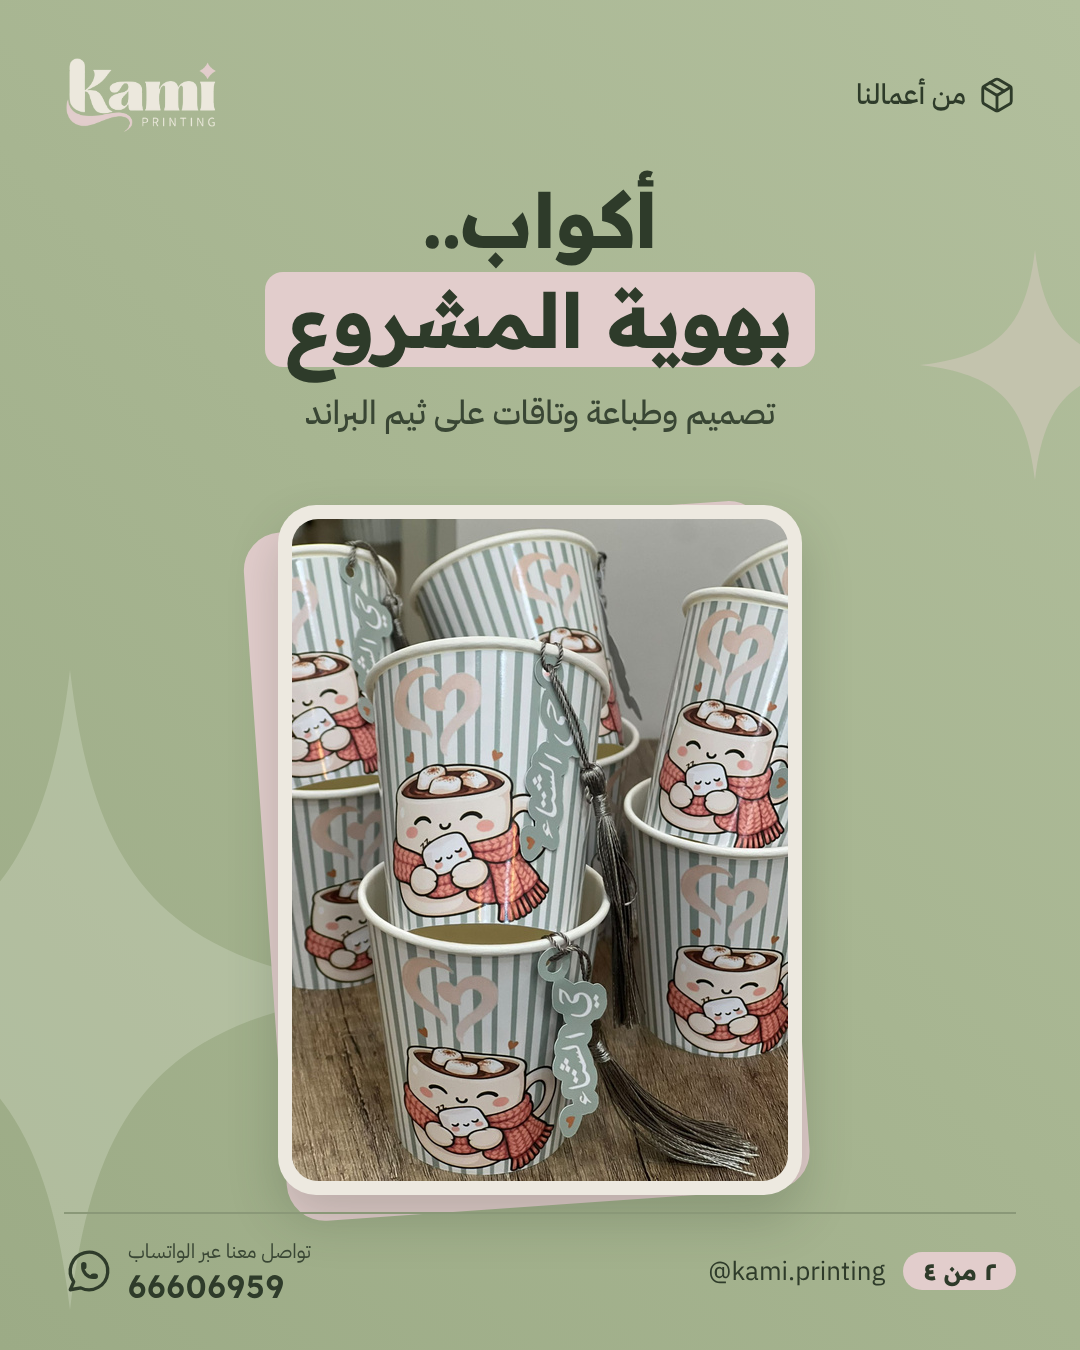
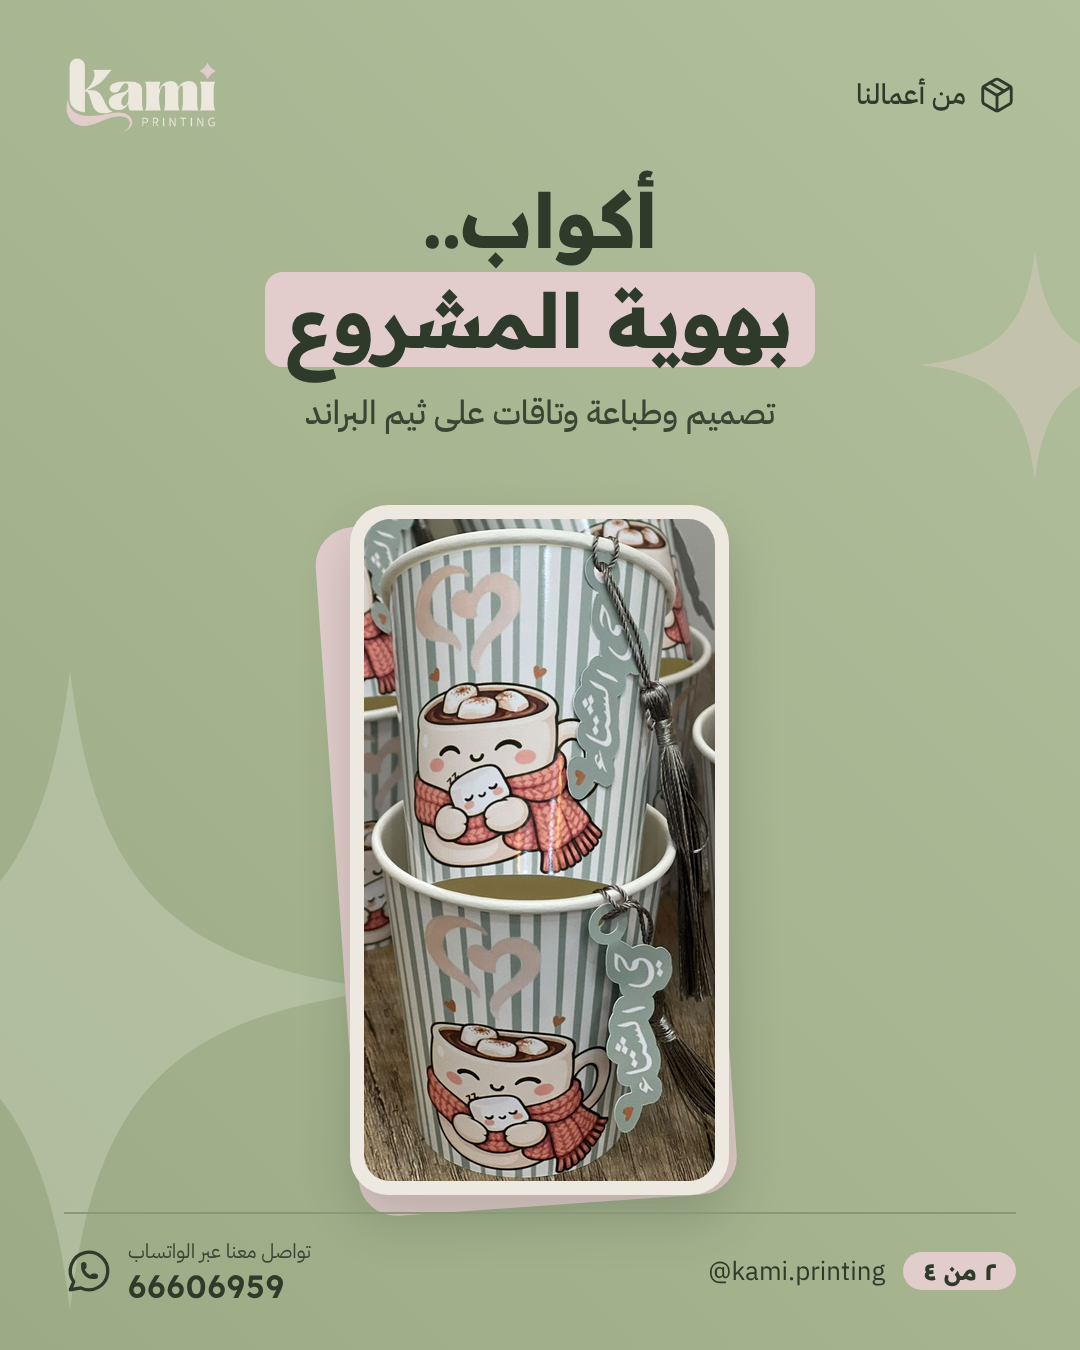
From-our-work post: tidy cups crop (تعديل 2)
Claude-Session: https://claude.ai/code/session_01EDga3ExHWSoRVjSYima4hU

Changed region(s): [[0.2139, 0.3733, 0.7639, 0.9022]]

diff --git a/templates/bundle-carousel.html b/templates/bundle-carousel.html
@@ -34,8 +34,8 @@ footer{position:absolute;left:64px;right:64px;bottom:44px;display:flex;justify-c
 <path d="M11 21.73a2 2 0 0 0 2 0l7-4A2 2 0 0 0 21 16V8a2 2 0 0 0-1-1.73l-7-4a2 2 0 0 0-2 0l-7 4A2 2 0 0 0 3 8v8a2 2 0 0 0 1 1.73z"/>
 <path d="M12 22V12"/><path d="m3.3 7 7.703 4.734a2 2 0 0 0 1.994 0L20.7 7"/><path d="m7.5 4.27 9 5.15"/></svg><span>من أعمالنا</span></div></header>
   <div class="txt"><h1>من أعمالنا..<br><span class="hl">لأحد زباينا</span></h1><div class="cap">أكواب وستيكرات ولمسات ضيافة بهوية عملهم ✦</div></div>
-  <div class="card" style="left:219px;top:505px;width:642px;height:650px"></div>
-  <div class="frame" style="left:219px;top:505px;width:642px;height:650px"><img src="photos/bundle/collage-fit.jpg"></div>
+  <div class="card" style="left:250px;top:505px;width:580px;height:650px"></div>
+  <div class="frame" style="left:250px;top:505px;width:580px;height:650px"><img src="photos/bundle/collage-fit.jpg"></div>
   <div class="swipe">اسحبوا ←</div>
   <footer><div class="fw"><svg viewBox="0 0 24 24" fill="none" stroke="currentColor" stroke-width="1.6" stroke-linecap="round" stroke-linejoin="round">
 <path d="M3 21l1.65-3.8a9 9 0 1 1 3.4 2.9L3 21"/><path d="M9 10a.5.5 0 0 0 1 0V9a.5.5 0 0 0-1 0v1a5 5 0 0 0 5 5h1a.5.5 0 0 0 0-1h-1a.5.5 0 0 0 0 1"/></svg><div><small>تواصل معنا عبر الواتساب</small><b>66606959</b></div></div>
@@ -46,8 +46,8 @@ footer{position:absolute;left:64px;right:64px;bottom:44px;display:flex;justify-c
 <path d="M11 21.73a2 2 0 0 0 2 0l7-4A2 2 0 0 0 21 16V8a2 2 0 0 0-1-1.73l-7-4a2 2 0 0 0-2 0l-7 4A2 2 0 0 0 3 8v8a2 2 0 0 0 1 1.73z"/>
 <path d="M12 22V12"/><path d="m3.3 7 7.703 4.734a2 2 0 0 0 1.994 0L20.7 7"/><path d="m7.5 4.27 9 5.15"/></svg><span>من أعمالنا</span></div></header>
   <div class="txt"><h1>أكواب..<br><span class="hl">بهوية المشروع</span></h1><div class="cap">تصميم وطباعة وتاقات على ثيم البراند</div></div>
-  <div class="card" style="left:278px;top:505px;width:524px;height:690px"></div>
-  <div class="frame" style="left:278px;top:505px;width:524px;height:690px"><img src="photos/bundle/1-fit.jpg"></div>
+  <div class="card" style="left:350px;top:505px;width:379px;height:690px"></div>
+  <div class="frame" style="left:350px;top:505px;width:379px;height:690px"><img src="photos/bundle/1-neat-fit.jpg"></div>
   
   <footer><div class="fw"><svg viewBox="0 0 24 24" fill="none" stroke="currentColor" stroke-width="1.6" stroke-linecap="round" stroke-linejoin="round">
 <path d="M3 21l1.65-3.8a9 9 0 1 1 3.4 2.9L3 21"/><path d="M9 10a.5.5 0 0 0 1 0V9a.5.5 0 0 0-1 0v1a5 5 0 0 0 5 5h1a.5.5 0 0 0 0-1h-1a.5.5 0 0 0 0 1"/></svg><div><small>تواصل معنا عبر الواتساب</small><b>66606959</b></div></div>

diff --git a/templates/bundle_carousel.py b/templates/bundle_carousel.py
@@ -38,10 +38,16 @@ def clean_sheet():
     im.save(os.path.join(PH, '3-clean.jpg'), quality=95)
 
 
+def neat_cups():
+    """Tidy cups shot: crop to the front stack of two cups with their tags (drops the leaning cups behind)."""
+    Image.open(os.path.join(PH, '1.jpg')).convert('RGB').crop((180, 330, 1060, 1990)) \
+        .save(os.path.join(PH, '1-neat.jpg'), quality=95)
+
+
 def collage():
     """Cover collage: row 1 cups + toppers (both 3:4), row 2 sticker stack + sheet; every photo whole."""
     g, Wc = 18, 1600
-    a = [Image.open(os.path.join(PH, f)).convert('RGB') for f in ('1.jpg', '4.jpg', '2.jpg', '3-clean.jpg')]
+    a = [Image.open(os.path.join(PH, f)).convert('RGB') for f in ('1-neat.jpg', '4.jpg', '2.jpg', '3-clean.jpg')]
     def row(ims):
         rs = [i.width / i.height for i in ims]
         h = round((Wc - g * (len(ims) - 1)) / sum(rs))
@@ -127,10 +133,10 @@ footer{{position:absolute;left:64px;right:64px;bottom:44px;display:flex;justify-
 
 
 def main():
-    clean_sheet(); collage()
+    clean_sheet(); neat_cups(); collage()
     BOX = (952, 690)
     a = fit('collage.jpg', 952, 650)
-    b = fit('1.jpg', *BOX)
+    b = fit('1-neat.jpg', *BOX)
     c = fit('3-clean.jpg', *BOX)
     d = fit('4.jpg', *BOX)
     slides = [

diff --git a/فهرس-التصاميم.md b/فهرس-التصاميم.md
@@ -201,7 +201,7 @@
 | 11 | `11-مطبوعات-المشاريع` | 10 سلايدات: ستيكرات الشعار وUV، بطاقات الشكر، بزنس كارد، قصاصات قطنية، علب مطوية. بثيم القسم 1 (تعديل 1، 2026-11-17). المصدر `templates/packaging_carousel.py` |
 | 12 | `12-ستوري-أصحاب-المشاريع` (آخر نسخة: تعديل 1) | ستوري 1080×1920 لأصحاب المشاريع: «نصمم وننفذ فكرتكم» و«من أول رسمة.. لين توصل بين إيدينكم»، صورة أكواب الشتاء من شغلنا داخل إطار كريمي مع شارة «من شغلنا»، وزر «أرسلوا لنا فكرتكم.. والباقي علينا»، والواتساب تحت. المصدر `templates/project_story.py`. في الدرايف: `المشروع\ستوري أصحاب المشاريع\` (الأصلية + `تعديل 1\`) |
 | 13 | `13-أكواب-التخرج` (آخر نسخة: تعديل 1) | كاروسيل 4 صور «أكواب وصحون بتصميمكم» بستايل صور المنتج الناعمة (مفرش أبيض ودانتيل)، لأي أحد يبي صورته أو اسمه أو أي تصميم، والتخرج مثال بس: 01 «صورتكم.. تنطبع على كوب»، 02 «عبارة على ذوقكم» (تخرج، مواليد، أعياد ميلاد، هدية) وعلى طرف الصحن «مبروك التخرج»، 03 «وبالاسم اللي تبونه»، 04 «نصمم وننفذ على طلبكم» على ثيم القسم 1 مع زر الواتساب. بدون سعر. الصور توضيحية مولّدة بالذكاء الاصطناعي. المصدر `templates/graduation_cups.py` والكتابة على الصحن `templates/saucer_text.py`. في الدرايف: `المشروع\أكواب وصحون\` (الأصلية + `تعديل 1\` + `المصدر\` فيه صور الذكاء الاصطناعي) |
-| 14 | `14-باقة-هوية-المشاريع` | كاروسيل 4 صور لأصحاب المشاريع بثيم القسم 1، والصور الحقيقية كاملة بدون قص داخل إطار كريمي وكرت وردي مايل: 01 «باقة تكمّل.. هوية مشروعك» بصورة مجمعة للأكواب والتوبرز والستيكرات والستيكر شيت مع «اسحبوا ←»، 02 «أكواب.. تميّز مشروعك»، 03 «ستيكر شيت.. وستيكرات جاهزة»، 04 «لمسة تحلي.. جمعة زباينك» مع الواتساب. شعار العميل السابق (Rafeef) على الستيكر شيت تغطى بدائرة «شعار مشروعك». بدون أسعار ولا عنوان. المصدر `templates/bundle_carousel.py`. في الدرايف: `المشروع\باقة هوية المشاريع\` (+ `المصدر\`) تعديل 1: صار «من أعمالنا لأحد زباينا» وآخره «فكرتكم.. نطبعها لكم» (اطلبوا أي ديزاين أو فكرة)، وشعار الزبون مغبّش بدال «شعار مشروعك». في الدرايف: `باقة هوية المشاريع\تعديل 1 - من أعمالنا\` |
+| 14 | `14-باقة-هوية-المشاريع` (آخر نسخة: تعديل 2) | كاروسيل 4 صور لأصحاب المشاريع بثيم القسم 1، والصور الحقيقية كاملة بدون قص داخل إطار كريمي وكرت وردي مايل: 01 «باقة تكمّل.. هوية مشروعك» بصورة مجمعة للأكواب والتوبرز والستيكرات والستيكر شيت مع «اسحبوا ←»، 02 «أكواب.. تميّز مشروعك»، 03 «ستيكر شيت.. وستيكرات جاهزة»، 04 «لمسة تحلي.. جمعة زباينك» مع الواتساب. شعار العميل السابق (Rafeef) على الستيكر شيت تغطى بدائرة «شعار مشروعك». بدون أسعار ولا عنوان. المصدر `templates/bundle_carousel.py`. في الدرايف: `المشروع\باقة هوية المشاريع\` (+ `المصدر\`) تعديل 1: صار «من أعمالنا لأحد زباينا» وآخره «فكرتكم.. نطبعها لكم» (اطلبوا أي ديزاين أو فكرة)، وشعار الزبون مغبّش بدال «شعار مشروعك». في الدرايف: `باقة هوية المشاريع\تعديل 1 - من أعمالنا\`. تعديل 2: صورة الأكواب انقصت على الكوبين اللي قدّام بس عشان تكون مرتبة: `باقة هوية المشاريع\تعديل 2 - أكواب مرتبة\` |
 
 ### الريلز الجاهزة (`جاهز/`)
 كل ريل له فيديو وغلاف وغلاف للشبكة وكابشن. حقوق المقاطع في `حقوق المقاطع.txt`.
@@ -251,6 +251,7 @@
 ## 7. سجل التعديلات
 | التاريخ | التصميم | التعديل | المجلد |
 |---|---|---|---|
+| 2026-11-21 | من أعمالنا (باقة هوية المشاريع) | صورة الأكواب كانت مو مرتبة: قصّيناها على الكوبين اللي قدّام بالتاقات والشراشيب، وشلنا الأكواب المايلة اللي ورا، في الغلاف وسلايد الأكواب | `المشروع\باقة هوية المشاريع\تعديل 2 - أكواب مرتبة\` |
 | 2026-11-21 | باقة هوية المشاريع ← من أعمالنا | تغيّرت الفكرة: الشغل صار «من أعمالنا لأحد زباينا» (أكواب، ستيكر شيت، توبرز)، وآخر سلايد «فكرتكم.. نطبعها لكم» مع «اطلبوا أي ديزاين أو فكرة لمشروعكم». و«توبرز» صارت «لمسات ضيافة» و«مشروعه» صارت «عملهم» مثل الريل. شعار الزبون على الستيكر شيت صار مغبّش، والشارة فوق «من أعمالنا» | `المشروع\باقة هوية المشاريع\تعديل 1 - من أعمالنا\` |
 | 2026-11-21 | ريل باقة الشتاء | تعديل 1: الفكرة صارت «من أعمالنا» لأحد المشاريع، والنهاية «عندكم فكرة لمشروعكم؟ نصمم وننفذ أي ديزاين تبونه». شلنا شعار كامي من الفيديو، وكابشن جديد | `المشروع\ريل باقة الشتاء\تعديل 1\` + `فيديوهاتي\` |
 | 2026-11-21 | ريل باقة الشتاء (جديد) | ريل 12 ثانية بستايل ناعم: أكواب الشتاء، ستيكر شيت، ستيكر مقصوص، ولمسات ضيافة، مع موسيقى هادية. غيّرنا «مشروعه» إلى «عملك» و«توبرز» إلى «لمسات ضيافة» بطلب صاحب المحل | `المشروع\ريل باقة الشتاء\` + `فيديوهاتي\` |
